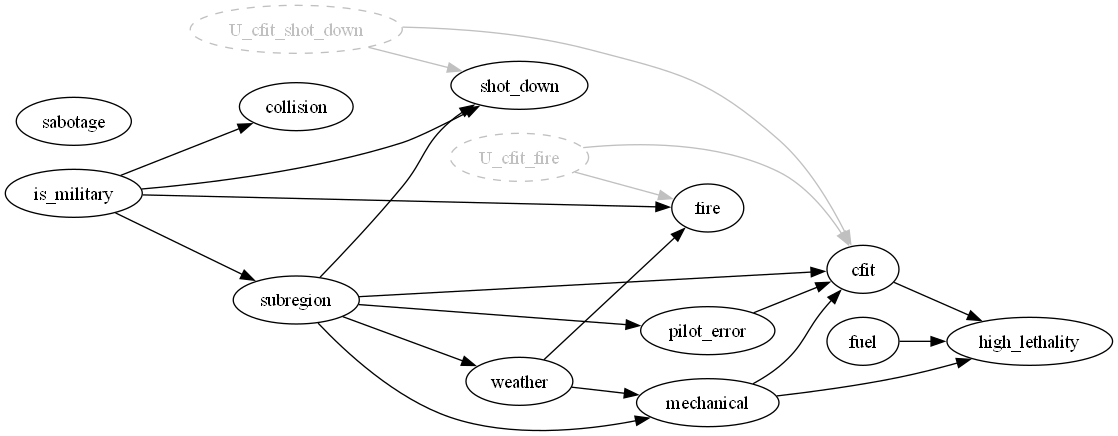
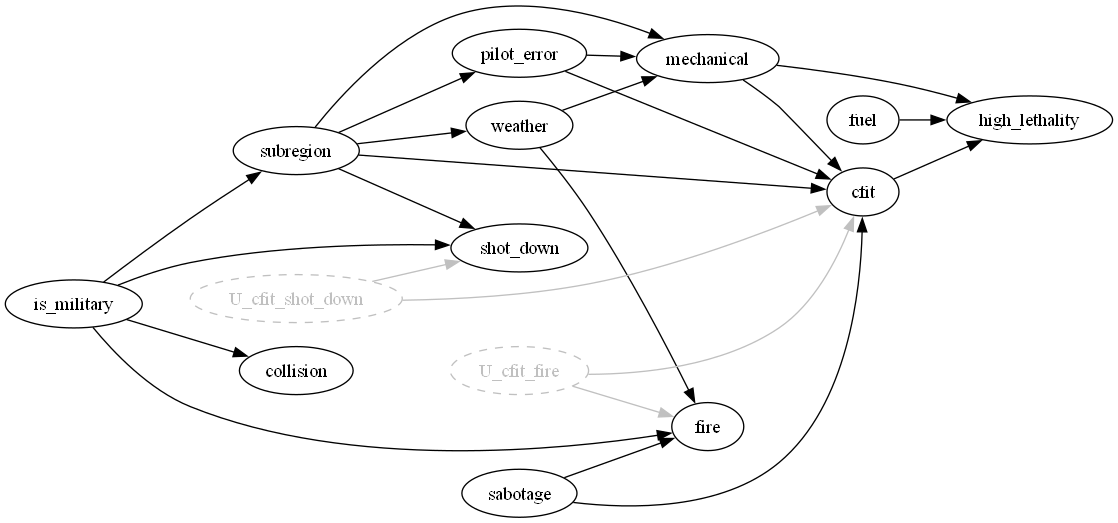
Fixed Everything with uncertain edges

diff --git a/causal_dowhy.py b/causal_dowhy.py
@@ -4,8 +4,7 @@
 #
 # Causal analysis using DoWhy for identification and estimation.
 # FCI (via causal-learn) is used for discovery to account for possible
-# unobserved confounders — it produces a PAG rather than a CPDAG, so
-# bidirected edges (i ↔ j) are preserved as latent common causes.
+# unobserved confounders — it produces a PAG.
 #
 # --- Assumptions encoded as background knowledge ---
 #
@@ -19,8 +18,12 @@
 # Causal ordering:
 #   - pilot_error  → cfit  (required): controlled flight into terrain is a
 #                    downstream consequence of pilot error, never the cause.
+#   - pilot_error  → mechanical (required): improper operation can damage
+#                    equipment; mechanical failure does not cause pilot error.
 #   - subregion    → pilot_error, shot_down, cfit, weather  (not the reverse).
 #   - mechanical   → high_lethality  (not the reverse).
+#   - sabotage     → cfit: disabling aircraft can cause cfit.
+#   - sabotage     → fire: explosives/arson cause fire.
 #
 # Outcome:
 #   - high_lethality : binary outcome (FatalityRate > 0.5); nothing in the
@@ -48,11 +51,8 @@ def prepare_data(exclude_solo: bool = True, max_samples: int | None = None) -> t
     """Load and encode data for causal discovery.
 
     Subregion is integer-coded (0–N) so FCI treats it as a single node.
-    FlightType is integer-coded as 3 classes: military=0, commercial=1, civilian=2.
     Causes are binary presence indicators.
-    fatality_rate is the continuous normalized fatality rate (fatalities / aboard).
-    KCI handles mixed continuous and categorical variables without distributional
-    assumptions, so no binning or binarization of the outcome is needed.
+    high_lethality is a binary outcome: 1 if FatalityRate > 0.5, else 0.
     """
     df = pd.read_csv("data/labeled_accidents.csv")
 
@@ -119,6 +119,13 @@ def build_background_knowledge() -> BackgroundKnowledge:
     # pilot_error → cfit is required; cfit → pilot_error is impossible
     bk.add_required_by_pattern("pilot_error", "cfit")
     bk.add_forbidden_by_pattern("cfit", "pilot_error")
+    # sabotage → cfit (disabling instruments/controls leads to CFIT)
+    # bk.add_required_by_pattern("sabotage", "cfit")
+    bk.add_forbidden_by_pattern("cfit", "sabotage")
+    # sabotage → fire (explosives/arson cause fire; fire doesn't cause sabotage)
+    bk.add_forbidden_by_pattern("fire", "sabotage")
+    # pilot_error → mechanical (improper operation damages equipment; mechanical failure doesn't cause pilot error)
+    bk.add_forbidden_by_pattern("mechanical", "pilot_error")
     # high_lethality is the outcome — it cannot cause anything
     bk.add_forbidden_by_pattern("high_lethality", ".*")
     # mechanical → high_lethality (not the reverse)
@@ -129,18 +136,22 @@ def build_background_knowledge() -> BackgroundKnowledge:
 def pag_to_dowhy_graph(nodes: list[str], adj: np.ndarray) -> nx.DiGraph:
     """Convert a causal-learn PAG adjacency matrix to a networkx DiGraph for DoWhy.
 
-    PAG adjacency matrix encoding — adj[i][j] is the mark AT node i:
+    causal-learn convention: adj[i][j] is the mark AT node i on the edge between
+    i and j.
+
       -1  tail  (—)
        1  arrowhead  (>)
        2  circle  (o)
 
     Conversion rules:
-      tail — arrowhead  (adj[i][j]==-1, adj[j][i]==1)  →  directed edge i → j
-      arrowhead — arrowhead (both==1)                   →  bidirected i ↔ j:
-            represented as a latent node L_i_j with edges L→i and L→j
-      All other mark combinations (circles, undirected) are skipped with a warning,
-      as they represent genuine uncertainty that cannot be collapsed to a DAG.
+      mark_at_i=-1, mark_at_j=1  →  directed edge i → j
+      mark_at_i=1,  mark_at_j=1  →  bidirected i ↔ j: latent node U with U→i and U→j
+      All other combinations (circle marks, undirected) are skipped.
     """
+    from causallearn.graph.Endpoint import Endpoint
+    assert Endpoint.TAIL.value == -1 and Endpoint.ARROW.value == 1 and Endpoint.CIRCLE.value == 2, \
+        "causal-learn Endpoint enum values have changed; review decoder."
+
     dag = nx.DiGraph()
     dag.add_nodes_from(nodes)
 
@@ -150,7 +161,7 @@ def pag_to_dowhy_graph(nodes: list[str], adj: np.ndarray) -> nx.DiGraph:
             mi = adj[i][j]  # mark at node i
             mj = adj[j][i]  # mark at node j
             if mi == 0 and mj == 0:
-                continue  # no edge
+                continue
             elif mi == -1 and mj == 1:
                 dag.add_edge(nodes[i], nodes[j])
             elif mi == 1 and mj == -1:
@@ -161,11 +172,10 @@ def pag_to_dowhy_graph(nodes: list[str], adj: np.ndarray) -> nx.DiGraph:
                 dag.add_node(latent, observed=False)
                 dag.add_edge(latent, nodes[i])
                 dag.add_edge(latent, nodes[j])
-            else:
-                print(f"  [warn] Skipping uncertain edge between '{nodes[i]}' and "
-                      f"'{nodes[j]}' (marks: {mi}, {mj})")
+            # all other mark combinations (circle marks) skipped
 
     return dag
+
 
 
 def render_graph(dag: nx.DiGraph, filename: str = "output/dowhy/pag") -> graphviz.Digraph:
@@ -213,44 +223,50 @@ def identify_and_estimate(dag: nx.DiGraph, data_df: pd.DataFrame,
 
     Returns the OLS coefficient, or None if identification or estimation failed.
     """
-    model = CausalModel(
-        data=data_df,
-        treatment=treatment,
-        outcome=outcome,
-        graph=dag,
-    )
-    identified = model.identify_effect(proceed_when_unidentifiable=True)
+    import warnings
+    with warnings.catch_warnings():
+        warnings.filterwarnings("ignore", message=".*assumed unobserved.*", category=UserWarning)
+        model = CausalModel(data=data_df, treatment=treatment, outcome=outcome, graph=dag)
+        identified = model.identify_effect(proceed_when_unidentifiable=True)
 
-    backdoor_sets = identified.backdoor_variables
-    if not backdoor_sets:
-        print(f"  No valid backdoor adjustment set found for '{treatment}'.")
+    backdoor_sets   = identified.backdoor_variables
+    frontdoor_sets  = identified.frontdoor_variables
+    iv_vars         = identified.instrumental_variables
+
+    if backdoor_sets:
+        first_key = next(iter(backdoor_sets))
+        adjustment_vars = list(backdoor_sets[first_key])
+        regressors = [treatment] + adjustment_vars
+        try:
+            X = sm.add_constant(data_df[regressors])
+            y = data_df[outcome]
+            result = sm.OLS(y, X).fit()
+            coef = result.params[treatment]
+            pval = result.pvalues[treatment]
+            conf = result.conf_int().loc[treatment]
+            print(f"  OLS coef({treatment}) = {coef:+.4f}  "
+                  f"95% CI [{conf[0]:+.4f}, {conf[1]:+.4f}]  p={pval:.4f}  [backdoor]")
+            print(f"  Adjustment set: {adjustment_vars}")
+            return coef
+        except Exception as e:
+            print(f"  Estimation failed: {e}")
+            return None
+    elif frontdoor_sets:
+        first_key = next(iter(frontdoor_sets))
+        mediators = list(frontdoor_sets[first_key])
+        print(f"  Identified via front-door (mediators: {mediators}) — not estimated via OLS.")
         return None
-
-    # backdoor_variables is a dict keyed from 1; grab the first valid set
-    first_key = next(iter(backdoor_sets))
-    adjustment_vars = list(backdoor_sets[first_key])
-    regressors = [treatment] + adjustment_vars
-
-    try:
-        X = sm.add_constant(data_df[regressors])
-        y = data_df[outcome]
-        result = sm.OLS(y, X).fit()
-        coef = result.params[treatment]
-        pval = result.pvalues[treatment]
-        conf = result.conf_int().loc[treatment]
-        print(f"  OLS coef({treatment}) = {coef:+.4f}  "
-              f"95% CI [{conf[0]:+.4f}, {conf[1]:+.4f}]  p={pval:.4f}")
-        print(f"  Adjustment set: {adjustment_vars}")
-        return coef
-    except Exception as e:
-        print(f"  Estimation failed: {e}")
+    elif iv_vars:
+        first_key = next(iter(iv_vars))
+        instruments = list(iv_vars[first_key])
+        print(f"  Identified via IV (instruments: {instruments}) — not estimated via OLS.")
         return None
-
-
+    else:
+        print(f"  Not identified -- no valid backdoor, front-door, or IV set found.")
+        return None
 
 
 if __name__ == "__main__":
-    # FCI discovers structure on binary high_lethality; regression uses continuous fatality_rate.
     OUTCOME = "high_lethality"
     TREATMENTS = ["cfit", "collision", "fire", "fuel", "mechanical",
                   "pilot_error", "sabotage", "shot_down", "weather"]

diff --git a/data_labeling.py b/data_labeling.py
@@ -8,7 +8,6 @@
 # Output: A pandas dataframe that can classify each accident by cause
 
 import re
-from collections import Counter
 
 import pandas as pd
 
@@ -97,14 +96,6 @@ class AccidentCauseClassifier:
 
     def classify_operator_series(self, series: pd.Series) -> pd.Series:
         return series.map(self.classify_operator)
-
-    def word_frequency(self, series: pd.Series, top_n: int = 100) -> list[tuple[str, int]]:
-        counts = Counter()
-        for text in series.dropna():
-            tokens = re.findall(r'\b[a-z]+\b', text.lower())
-            counts.update(t for t in tokens if t not in self.STOPWORDS)
-        return counts.most_common(top_n)
-
 
 class LocationSubregionClassifier:
     """Maps Location strings to UN M49 subregions (22-subregion standard).
